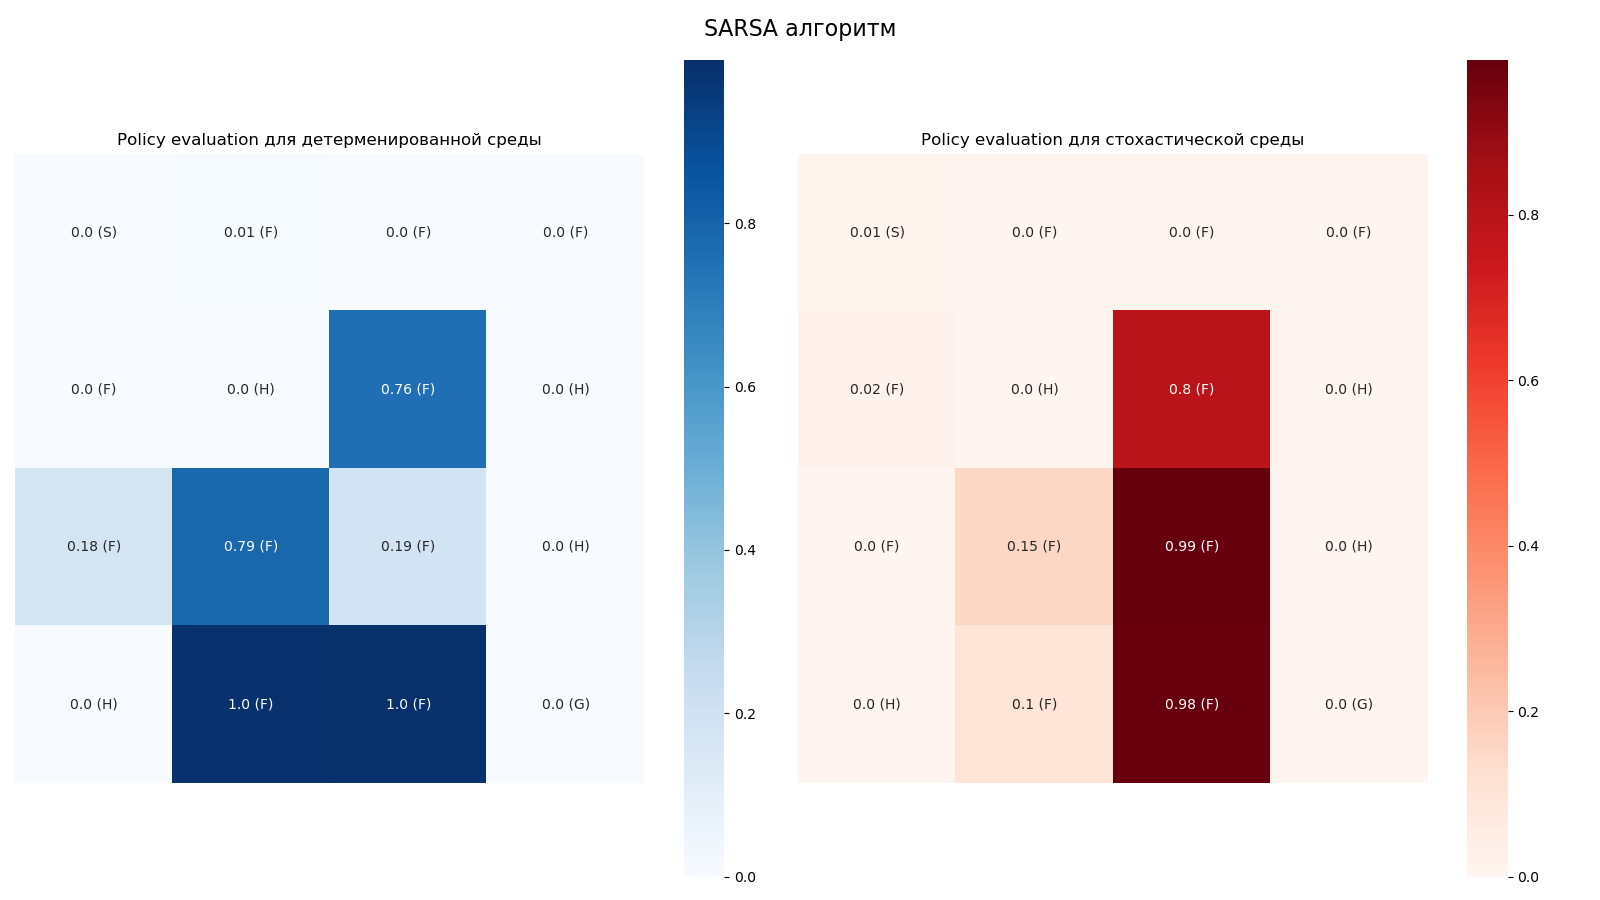
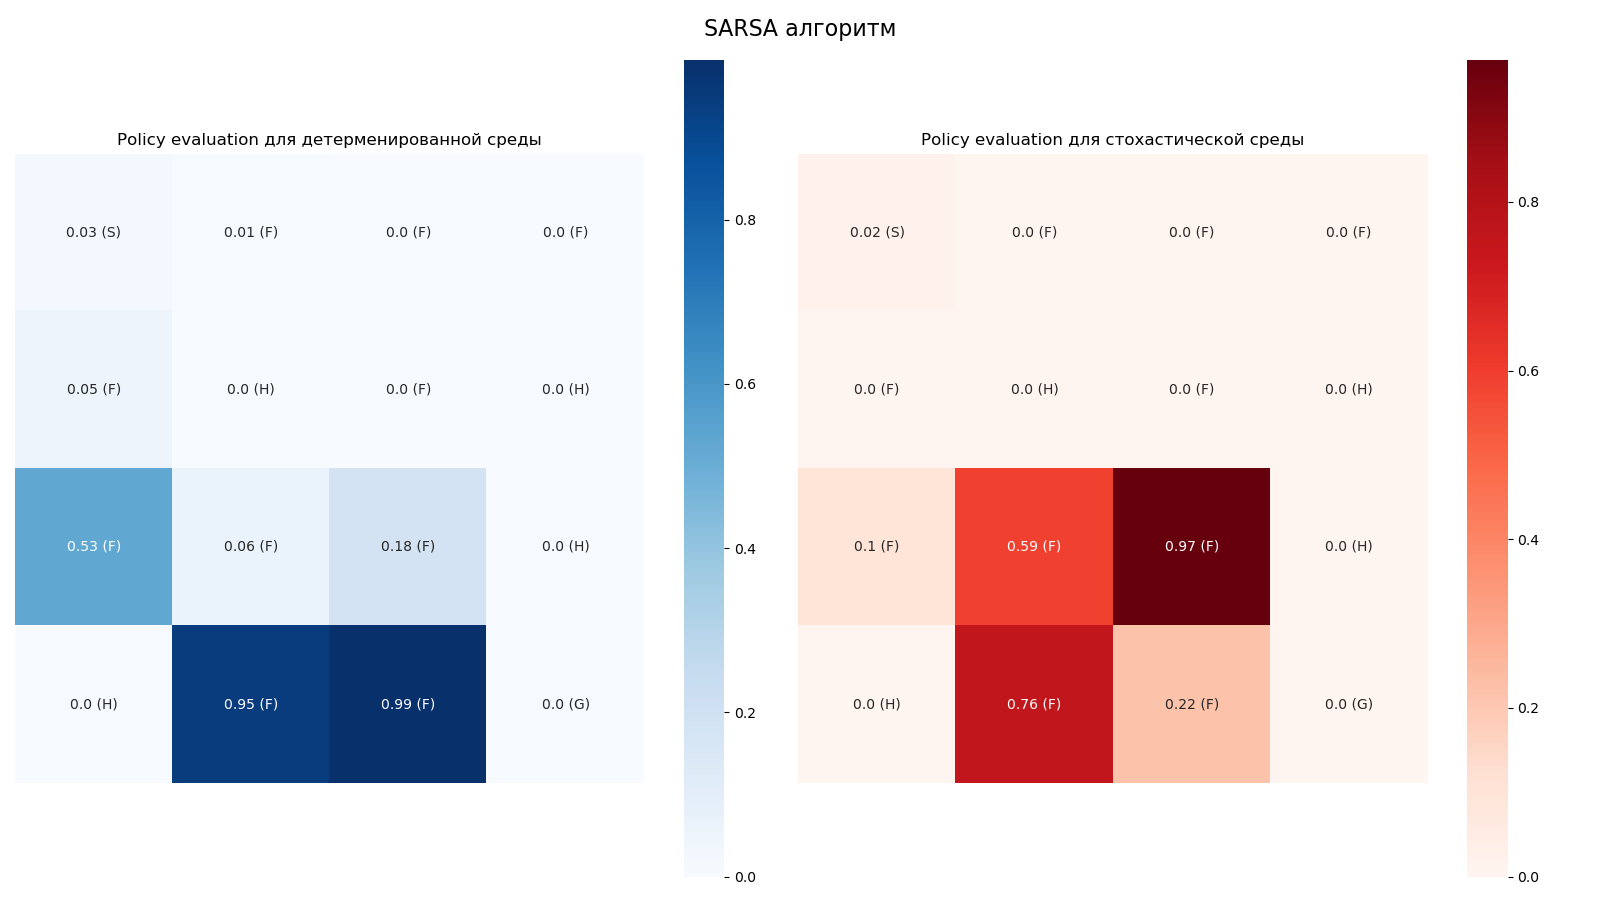
recompute for 3000 episodes

diff --git a/RL/6/main.py b/RL/6/main.py
@@ -109,13 +109,13 @@ for id, solver_type in enumerate(SolverType):
         solver_deterministic = FrozenLakeSolver(env_type=EnvType.Deterministic,
                                                 solver_type=solver_type,
                                                 gamma=1.,
-                                                episodes=2500,
+                                                episodes=3000,
                                                 alpha=alpha)
 
         solver_stochastic = FrozenLakeSolver(env_type=EnvType.Stochastic,
                                              solver_type=solver_type,
                                              gamma=1.,
-                                             episodes=2500,
+                                             episodes=3000,
                                              alpha=alpha)
 
         optimal_steps = solver_deterministic.play()

diff --git a/RL/6/TD.py b/RL/6/TD.py
@@ -78,7 +78,7 @@ class QLearning:
         steps = 0
         optimal_step = 0
         for episode in range(self.episodes):
-            print(f'SARSA, episode: {episode}/{self.episodes}')
+            print(f'Q learning, episode: {episode}/{self.episodes}')
             obs = self.env.reset()
             done = False
             while not done:
@@ -122,7 +122,7 @@ class DQLearning:
         steps = 0
         optimal_step = 0
         for episode in range(self.episodes):
-            print(f'SARSA, episode: {episode}/{self.episodes}')
+            print(f'DQ learning, episode: {episode}/{self.episodes}')
             obs = self.env.reset()
             done = False
             while not done:
